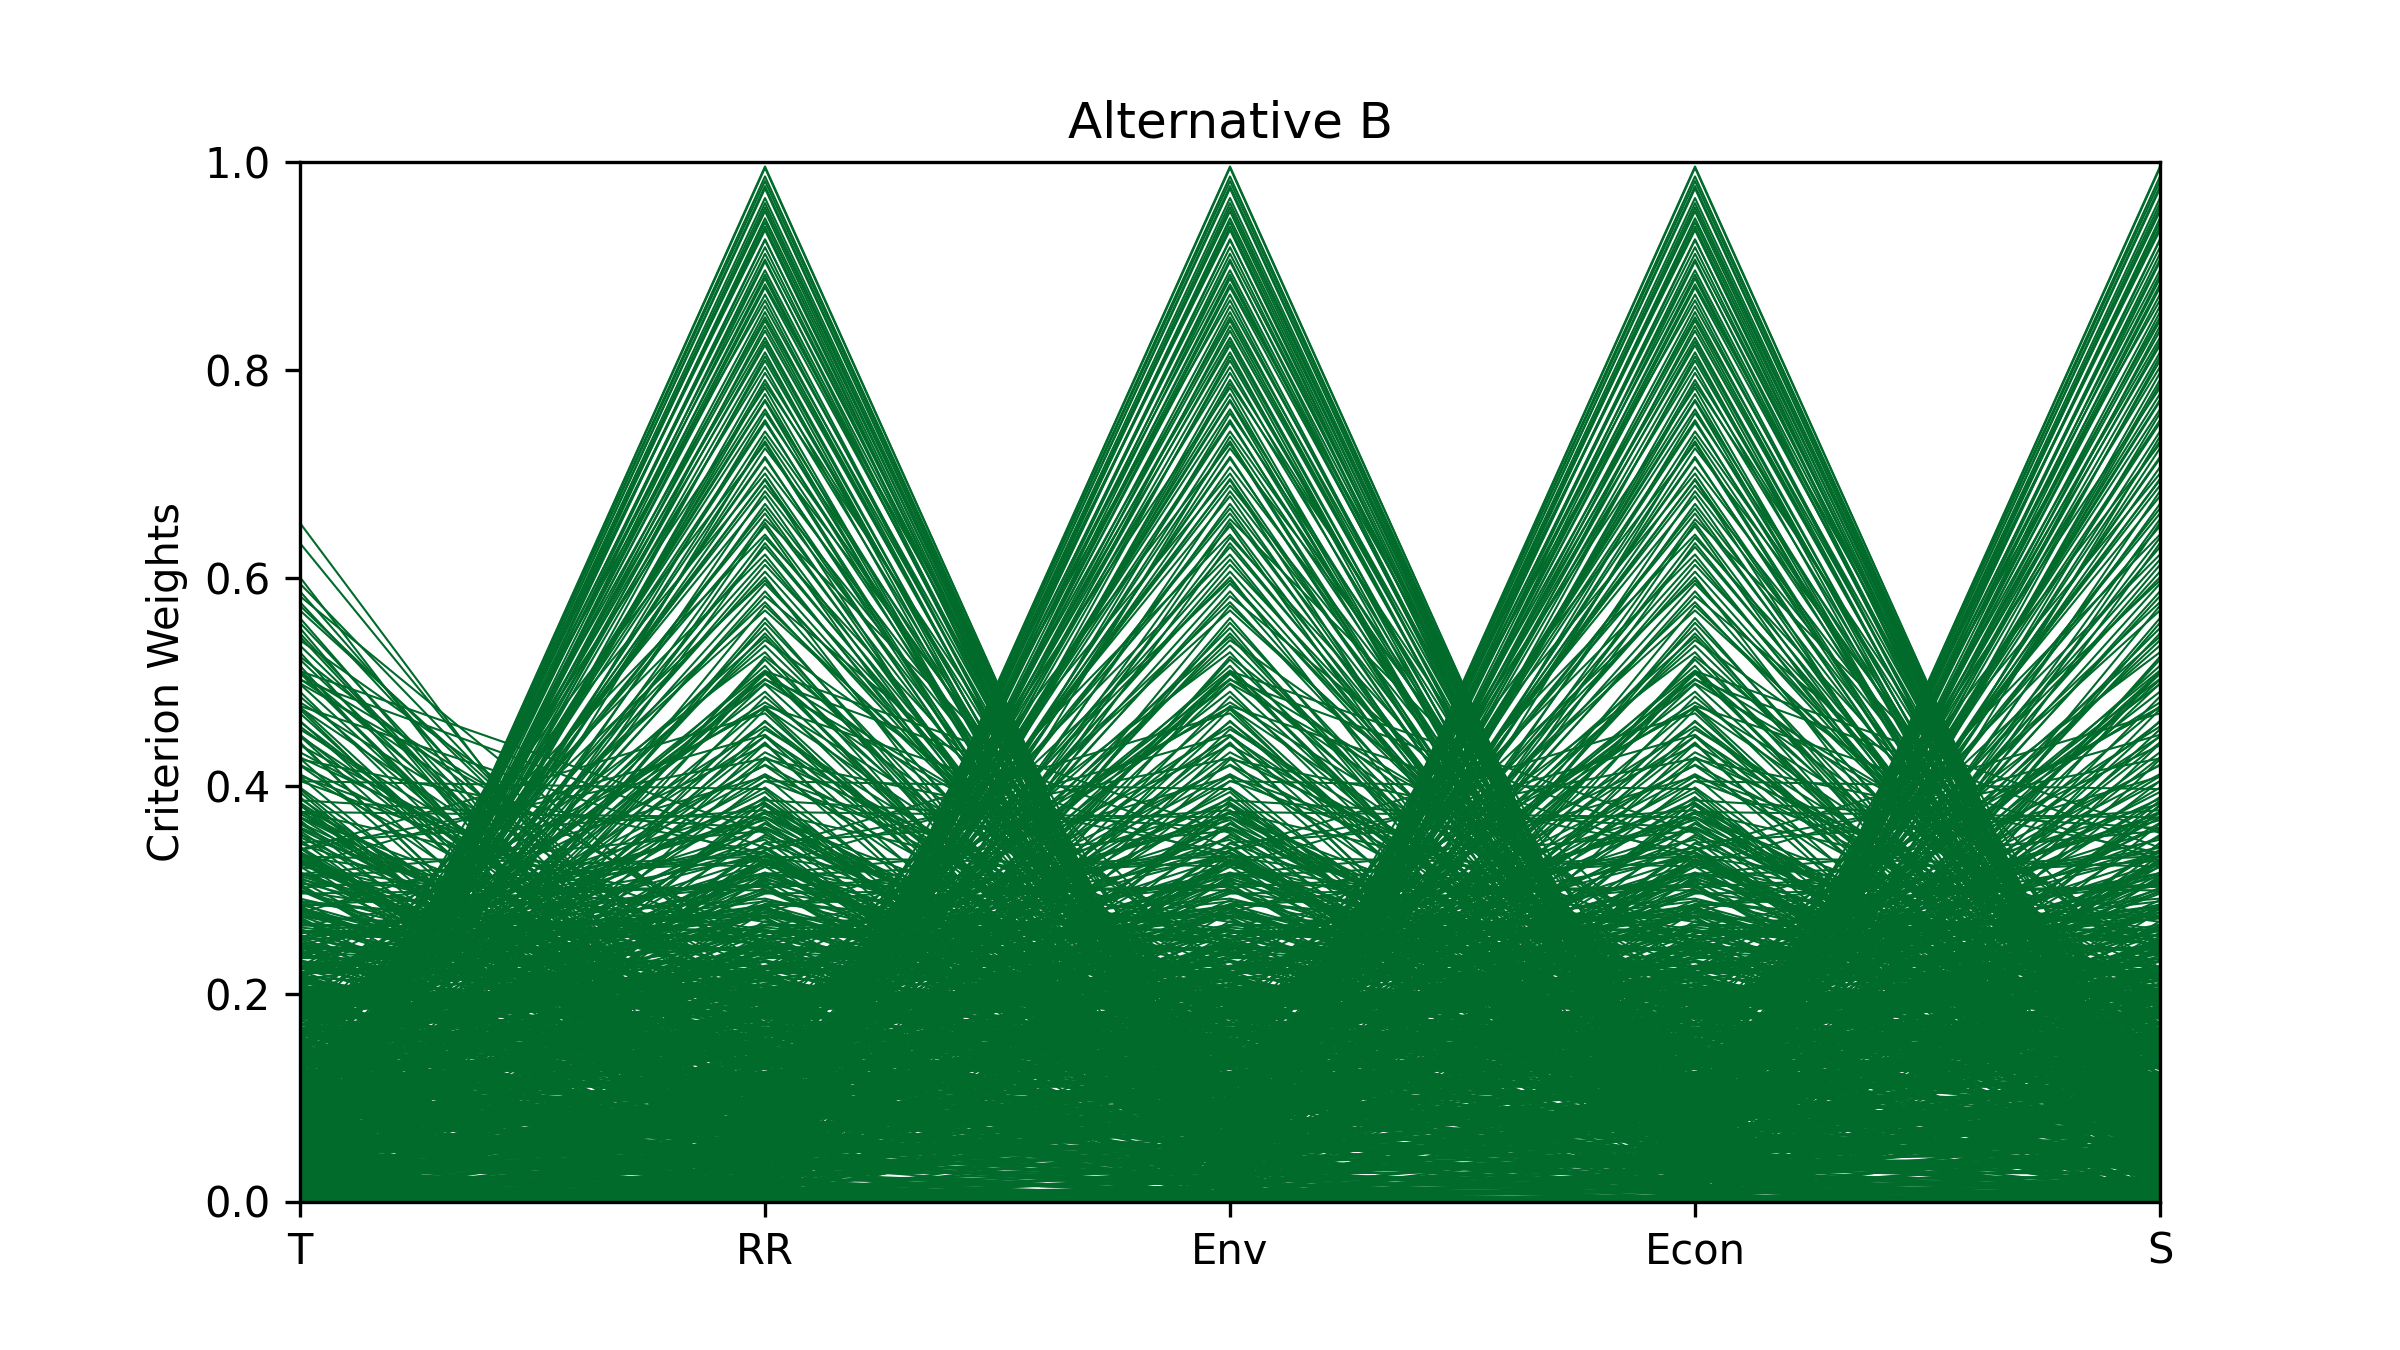
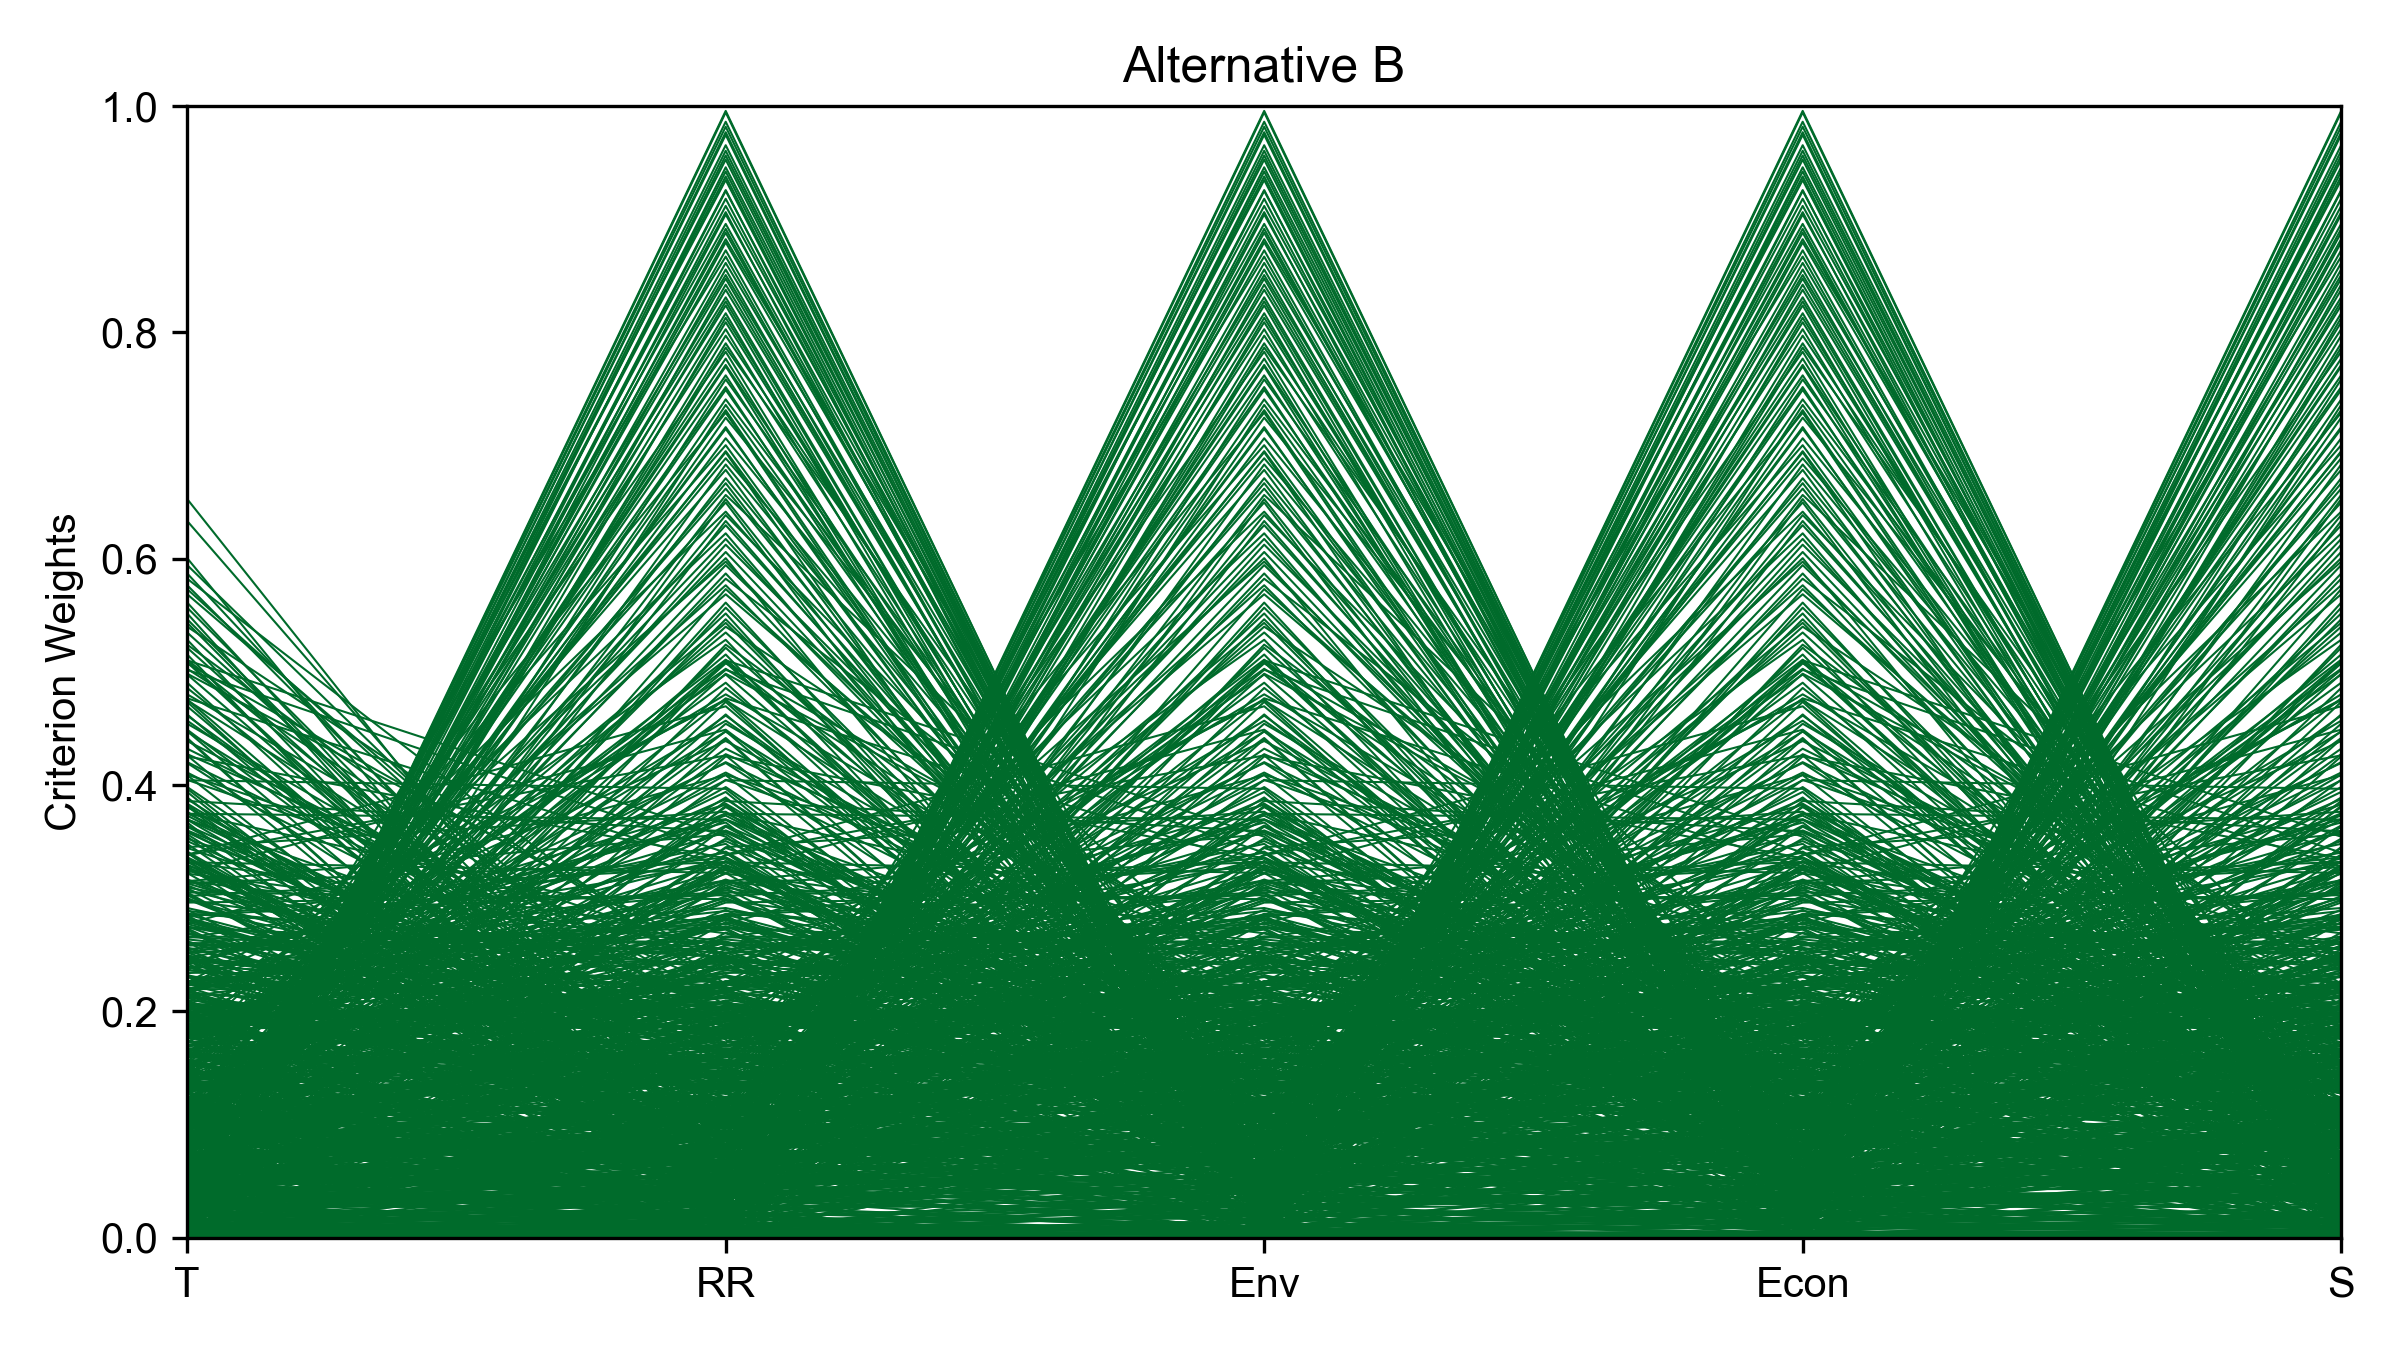
add in initial formatting codes for figures

diff --git a/dmsan/bwaise/line_graph.py b/dmsan/bwaise/line_graph.py
@@ -11,8 +11,13 @@ an alternative having the highest score among all.
 import os
 import numpy as np
 import pandas as pd
+import matplotlib as mpl
 from matplotlib import pyplot as plt, pylab as pl
 from dmsan.bwaise import figures_path, import_from_pickle
+
+# Set font to Arial
+mpl.rcParams['font.sans-serif'] = 'arial'
+mpl.rcParams["figure.autolayout"] = True
 
 loaded = import_from_pickle(uncertainty=True, sensitivity='KS')
 score_df_dct, rank_df_dct, winner_df = loaded['uncertainty']
@@ -48,10 +53,32 @@ def plot_winner(winner_df):
     wts = [np.array([ratio2float(i) for i in wt.index]) for wt in separated]
 
     fig, ax = plt.subplots(figsize=(8, 4.5))
-    for wt, cmap in zip(wts, ('Reds', 'Greens', 'Blues')):
-        ax.plot(wt.transpose(), color=getattr(pl.cm, cmap)(225),
-                linewidth=0.5)
+    colors = ( # for A, B, and C
+        (0.635, 0.502, 0.725, 1), # last one is alpha (1 means no transparency)
+        (0.376, 0.757, 0.812, 1),
+        (0.929, 0.345, 0.435, 1),
+        )
+    for wt, color in zip(wts, colors):
+        ax.plot(wt.transpose(), color=color, linewidth=0.5)
+    # for wt, cmap in zip(wts, ('Reds', 'Greens', 'Blues')):
+    #     ax.plot(wt.transpose(), color=getattr(pl.cm, cmap)(225),
+    #             linewidth=0.5)
     ax = format_ax(ax, title='Overall winner')
+    
+    # The following codes are used to update axes, etc.,
+    # might be better to incorporate into the `format_ax` function
+    ax.tick_params(
+        axis='both', # x, y, or both
+        which='both', # major, minor, or both
+        direction='inout', # in, out or inout
+        )
+    ax2 = ax.secondary_xaxis('top') # add top axis
+    ax2.tick_params(axis='x', which='both', direction='in')
+    ax3 = ax.secondary_yaxis('right') # add right axis
+    ax3.tick_params(axis='y', which='both', direction='in')
+    for axis in (ax2, ax3):
+        axis.set(xticklabels='', yticklabels='')
+        
     return fig, ax
 
 
